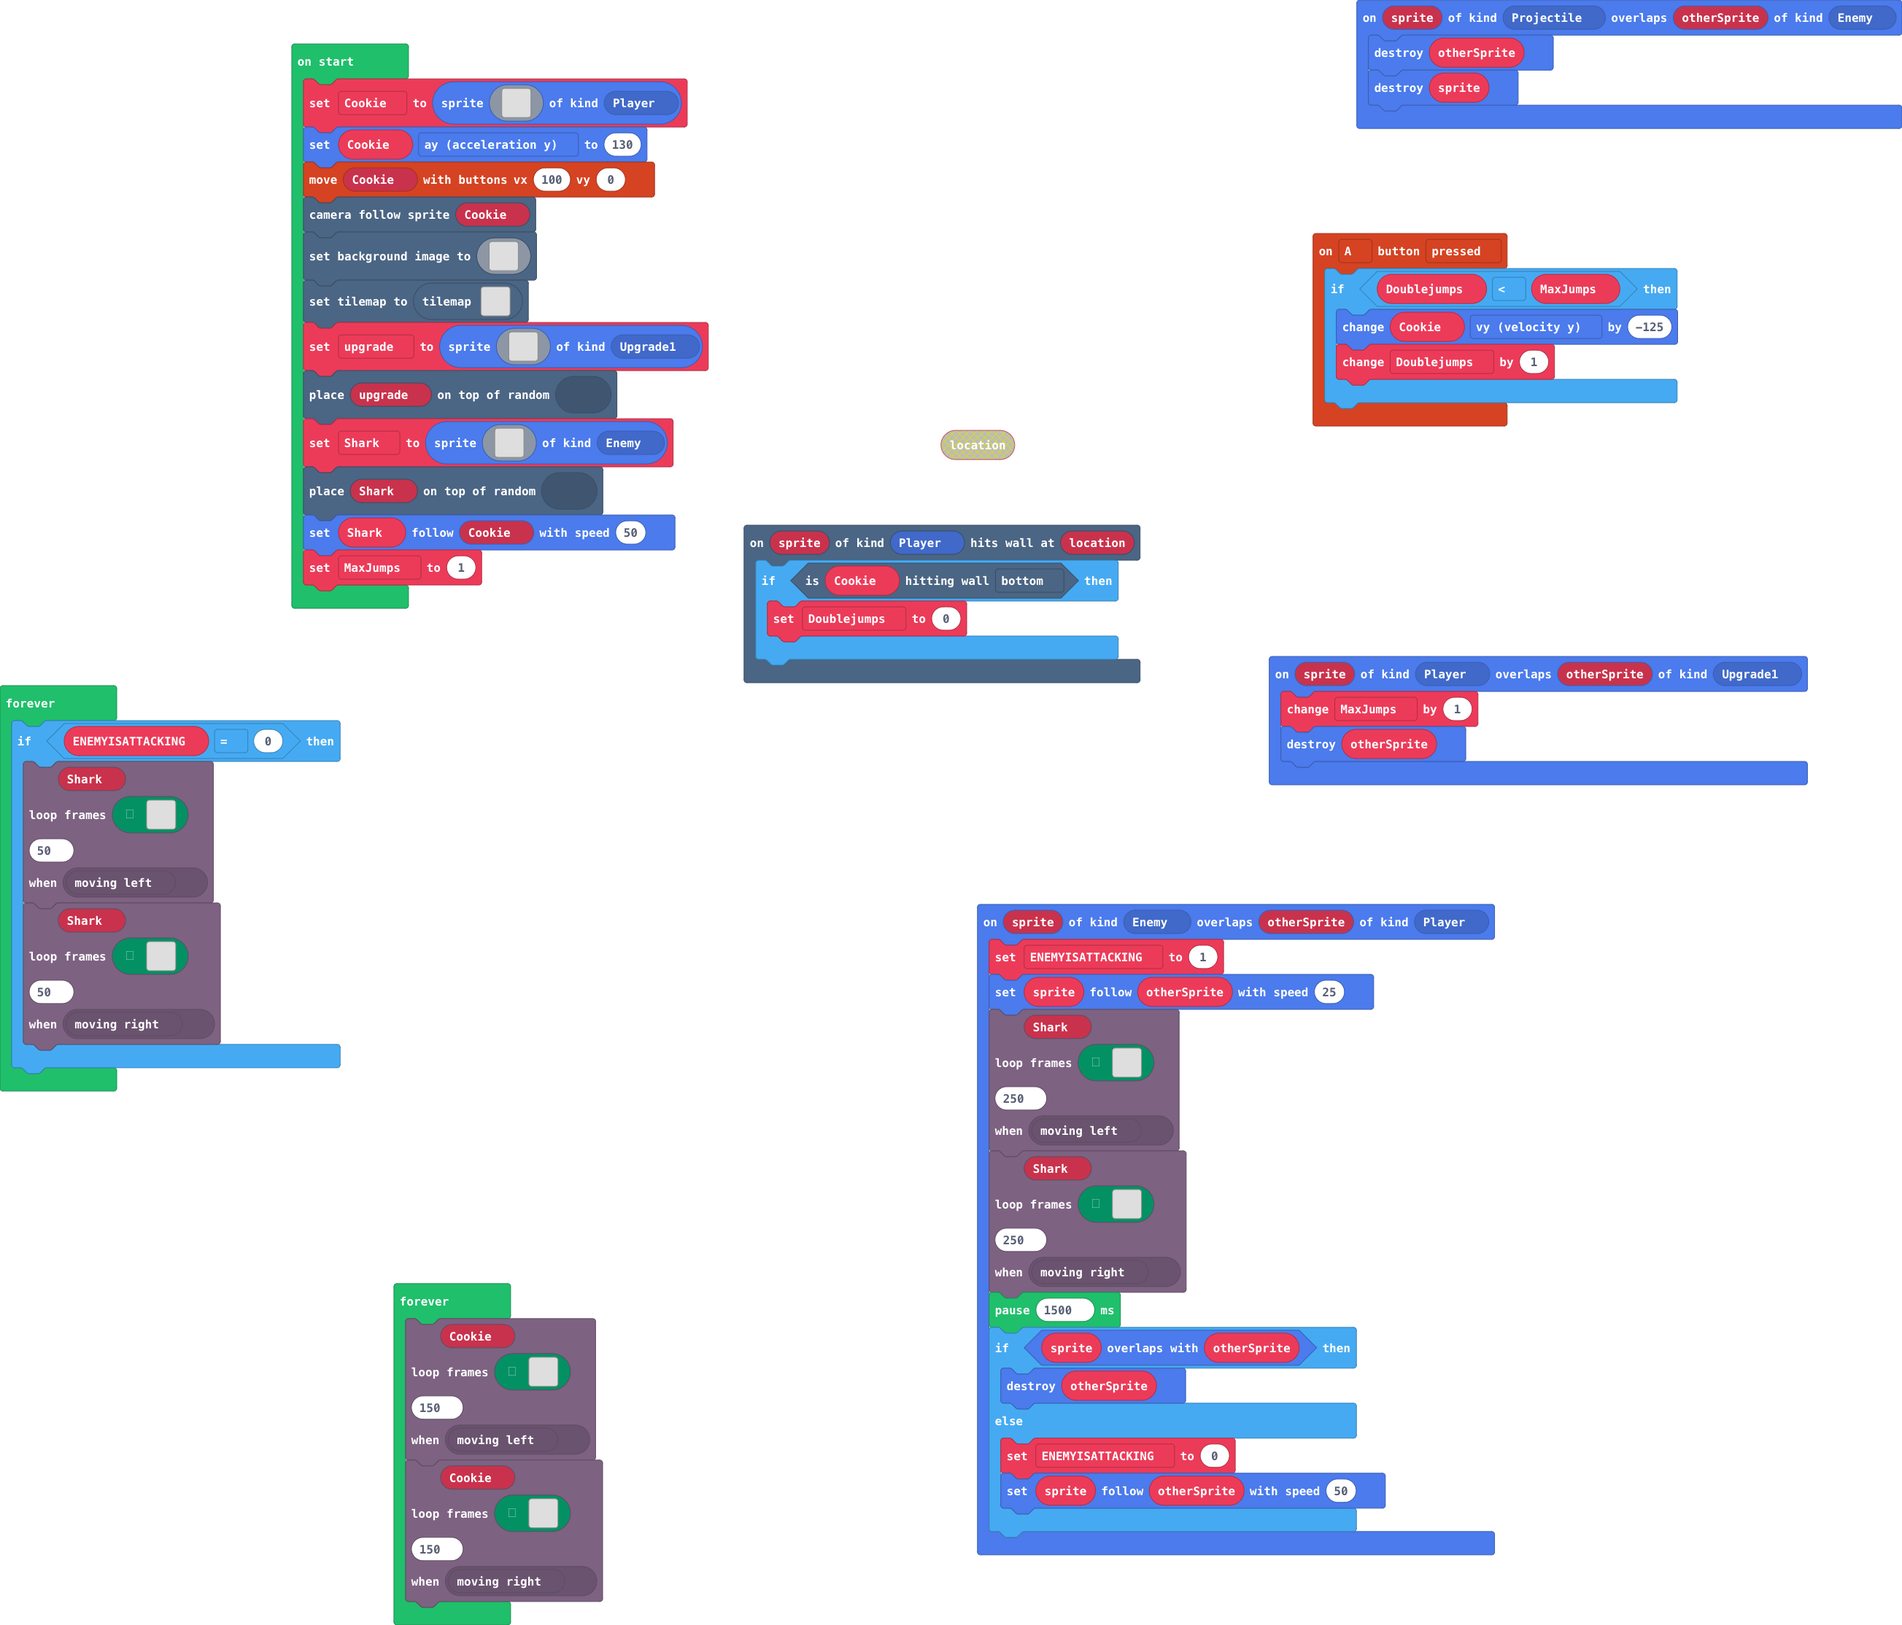
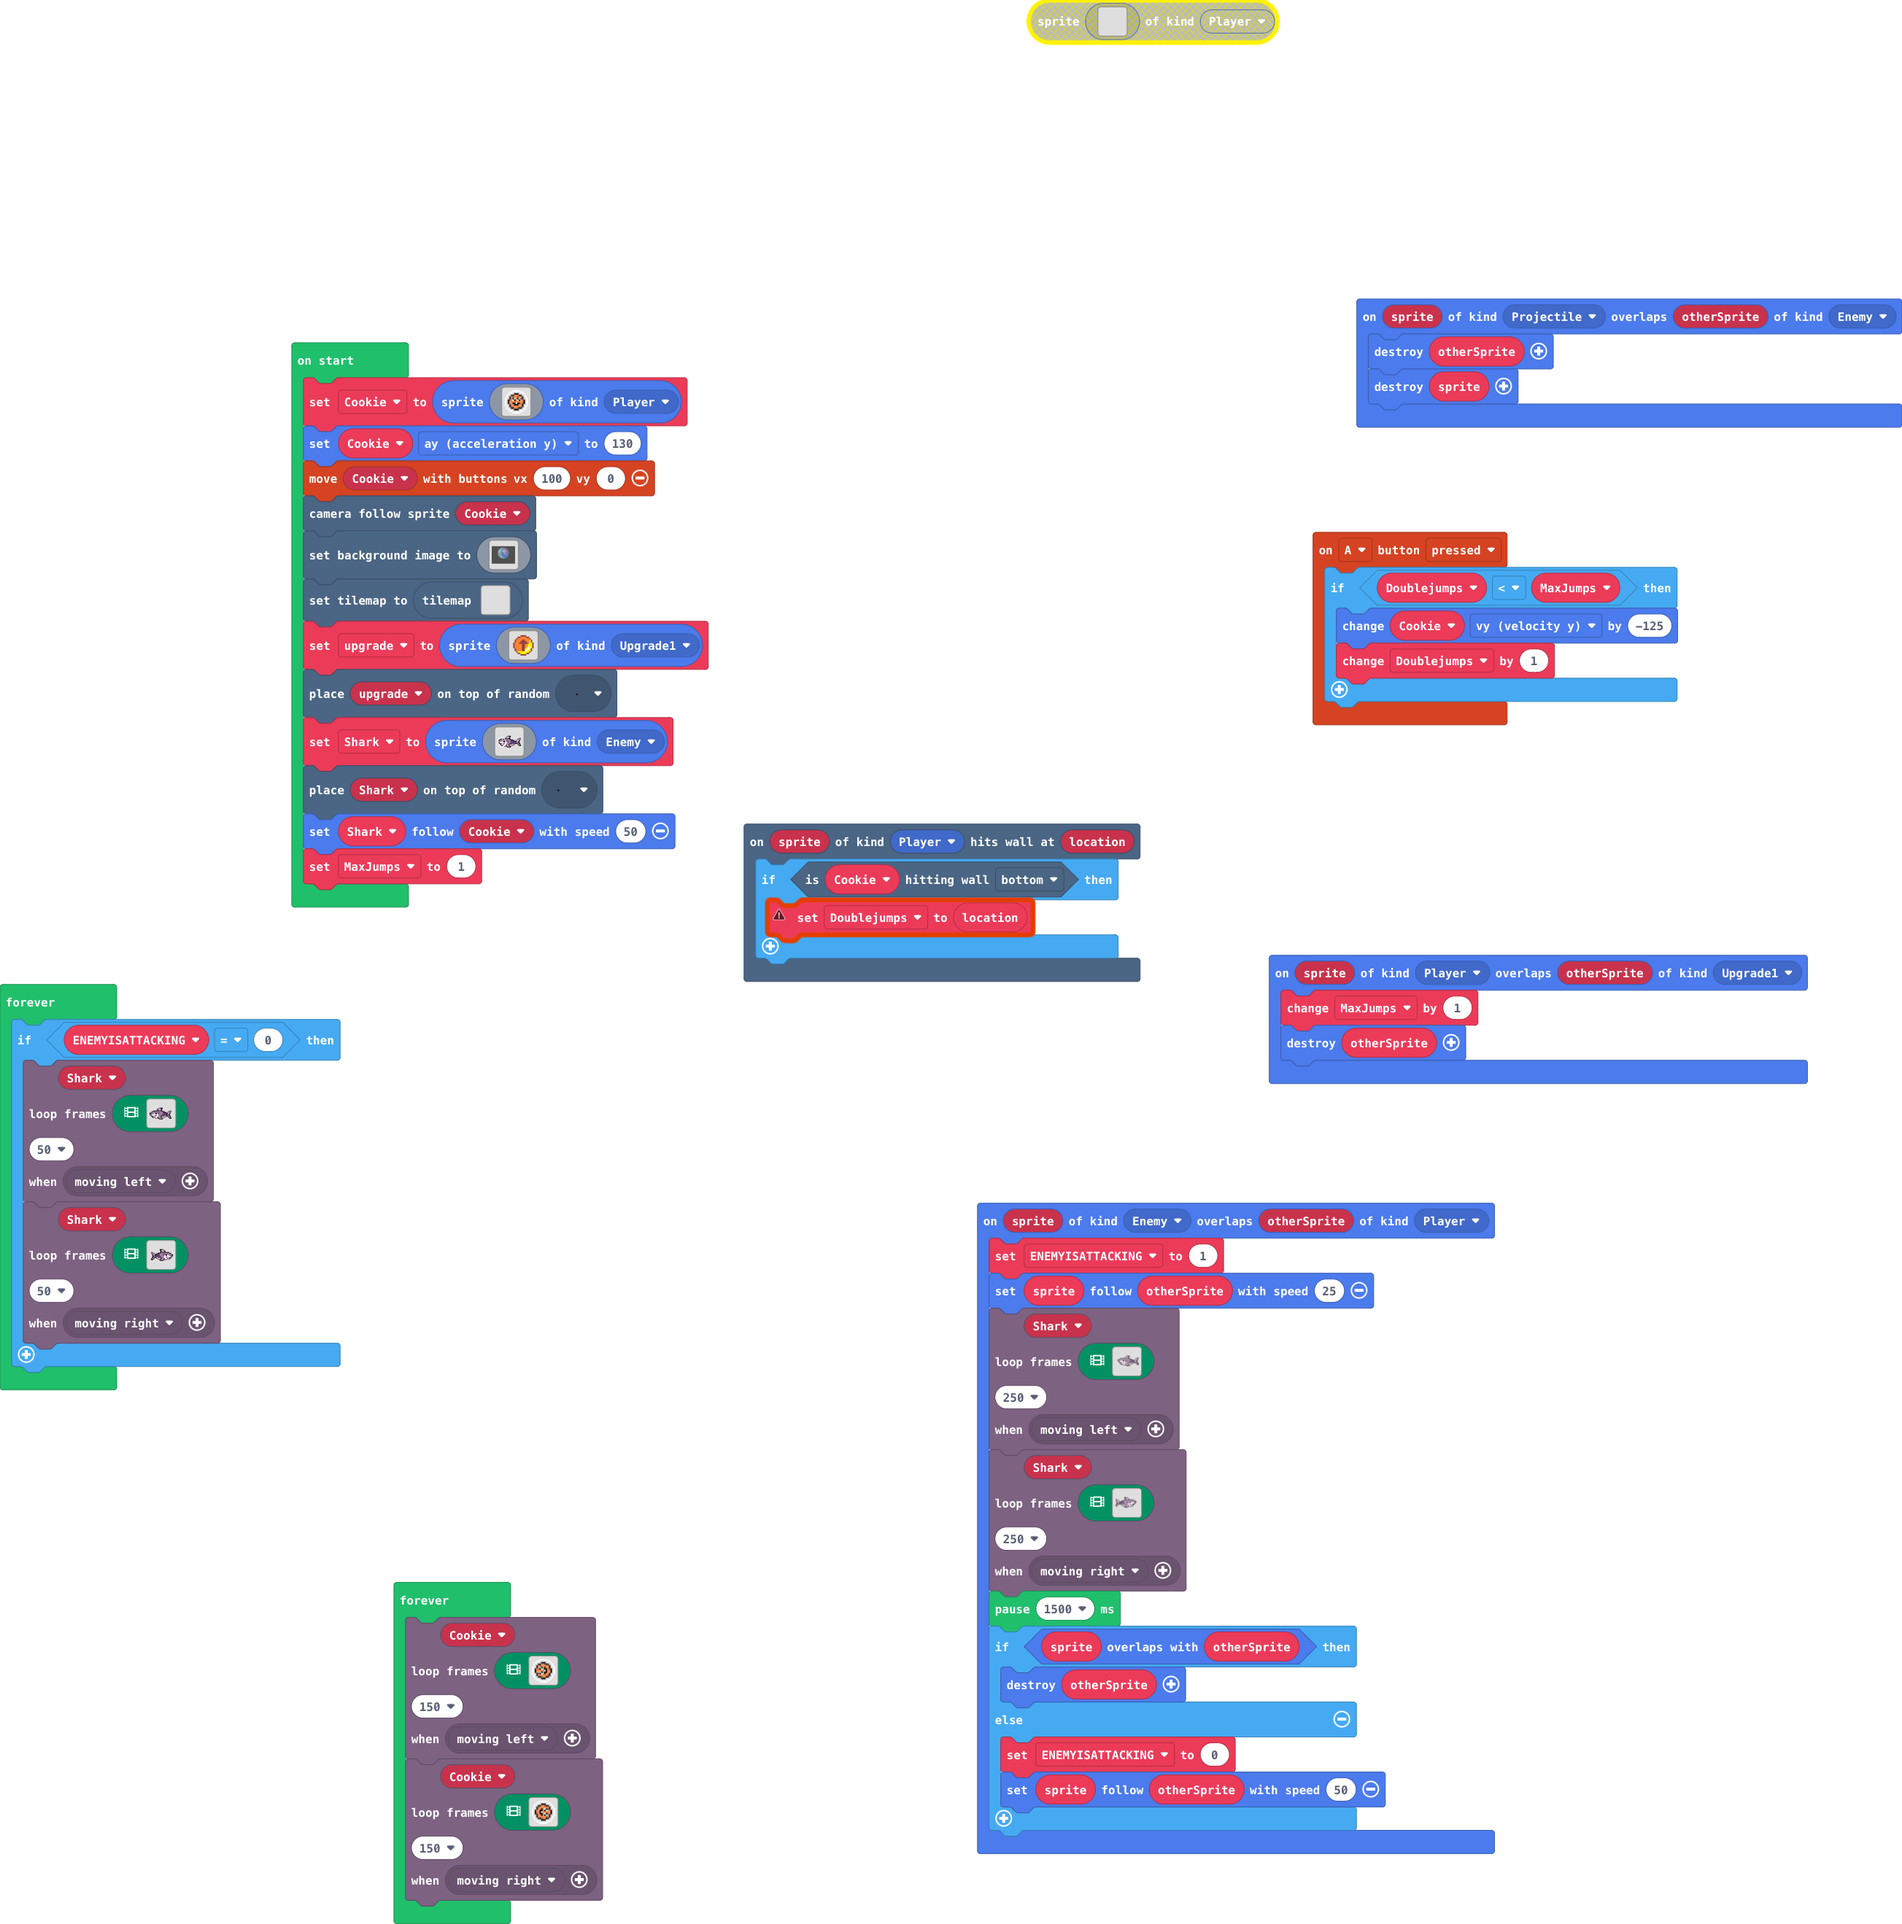
Update main.blocks, main.ts

diff --git a/main.ts b/main.ts
@@ -3,7 +3,7 @@ namespace SpriteKind {
 }
 scene.onHitWall(SpriteKind.Player, function (sprite, location) {
     if (Cookie.isHittingTile(CollisionDirection.Bottom)) {
-        Doublejumps = 0
+        Doublejumps = location
     }
 })
 controller.A.onEvent(ControllerButtonEvent.Pressed, function () {
